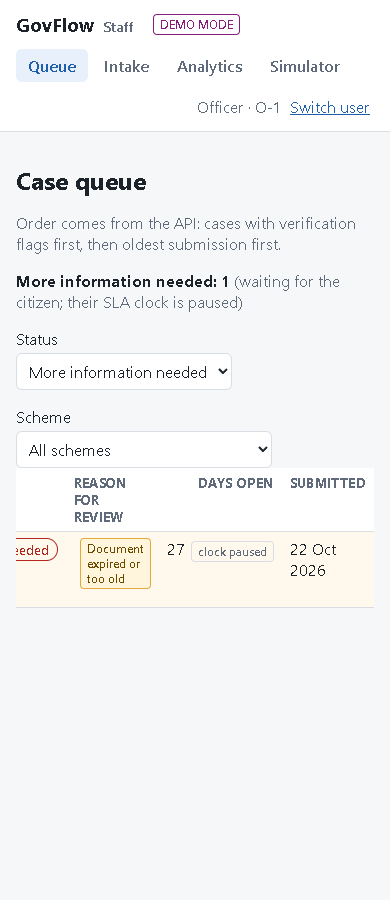
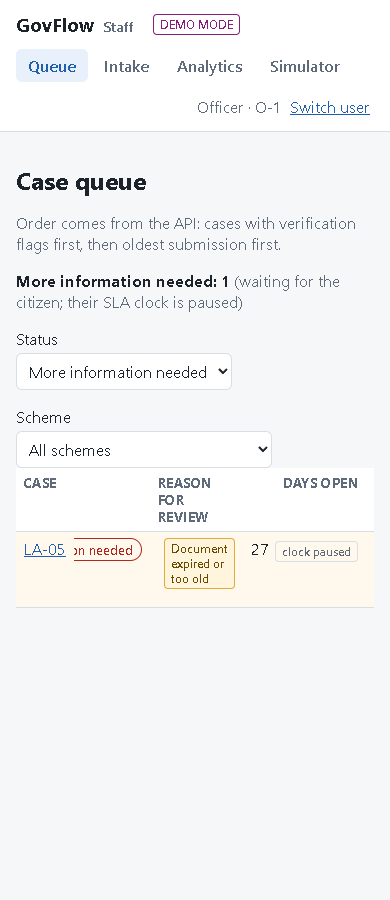
CSS: wrap 390px status pill, sticky queue Case column, single-line analytics ticks

diff --git a/web/src/styles.css b/web/src/styles.css
@@ -106,8 +106,12 @@ button.link { background: none; border: none; color: var(--accent); padding: 2px
 .decision { border-color: var(--accent); }
 /* Wide tables scroll inside their own box, so the page never scrolls sideways on a phone */
 .table-scroll { overflow-x: auto; max-width: 100%; }
+.table-scroll th:nth-child(2), .table-scroll td:nth-child(2) { position: sticky; left: 0; z-index: 1;
+  background: var(--surface); white-space: nowrap; }
+.table-scroll tr.flagged td:nth-child(2) { background: var(--flag-bg); }
 .confirm .confirm-item { display: flex; gap: 8px; align-items: center; margin: 6px 0; }
 .confirm .confirm-item input { width: 20px; height: 20px; margin: 0; flex: none; }
+
 /* Analytics bars: every chart on the page uses one shared scale, with tick labels under the bars */
 /* Fixed layout: column widths are exact percentages, so every chart's track has the same pixel width. */
 .bars { table-layout: fixed; }
@@ -122,12 +126,13 @@ button.link { background: none; border: none; color: var(--accent); padding: 2px
 .bars .axis { padding: 0 8px; }
 .axis-track { display: block; position: relative; height: 1.4em; }
 .axis-track > span { position: absolute; top: 2px; transform: translateX(-50%); font-size: 0.75rem; color: var(--muted);
-  font-variant-numeric: tabular-nums; }
+  font-variant-numeric: tabular-nums; white-space: nowrap; }
 .axis-track > span:first-child { transform: none; }
 .axis-track > span:last-child { transform: translateX(-100%); }
 .decision-row td { font-weight: 600; }
 .citizen-view .line { margin: 6px 0; }
-.citizen-view .line.status { width: fit-content; max-width: 100%; }   /* the pill sizes to its text */
+.citizen-view .line.status { width: fit-content; max-width: 100%; white-space: normal; }   /* sizes to its text, wraps on narrow screens */
+
 .citizen-view .source { font-size: 0.85rem; color: var(--muted); margin-top: -2px; }
 .citizen-view .total { font-weight: 700; }
 .letter { background: var(--surface); border: 1px solid var(--border); border-radius: 8px; padding: 24px; margin: 16px 0; }

diff --git a/docs/HANDOFF.md b/docs/HANDOFF.md
@@ -195,8 +195,9 @@ repo at that commit. For anything that changes later, `CLAUDE.md` "Current state
 
 ## 5. Current state (at `2981b68`, 18 Nov 2026)
 
-- **Tests, all green:** Python **1094** passed (three batches: 509 + 245 + 340); frontend **76** logic + **35** browser;
+- **Tests, all green:** Python **1094** passed (three batches: 509 + 245 + 340); frontend **76** logic + **36** browser;
   build clean.
+
 
 
 - **Commits:** 76 on `main`, pushed to `origin/main`.

diff --git a/CLAUDE.md b/CLAUDE.md
@@ -117,7 +117,8 @@ Fuller detail is in `docs/KNOWN_LIMITATIONS.md`.
 
 ### Tests (all green at commit time)
 - Python: 1094 passed (`pytest -q`, about 5 minutes; with little free memory, run in batches: 509 + 245 + 340).
-- Frontend: 76 logic (`npm test`) + 35 browser (`npm run test:layout`); `npm run test:all` runs both. Build clean.
+- Frontend: 76 logic (`npm test`) + 36 browser (`npm run test:layout`); `npm run test:all` runs both. Build clean.
+
 
 
 
